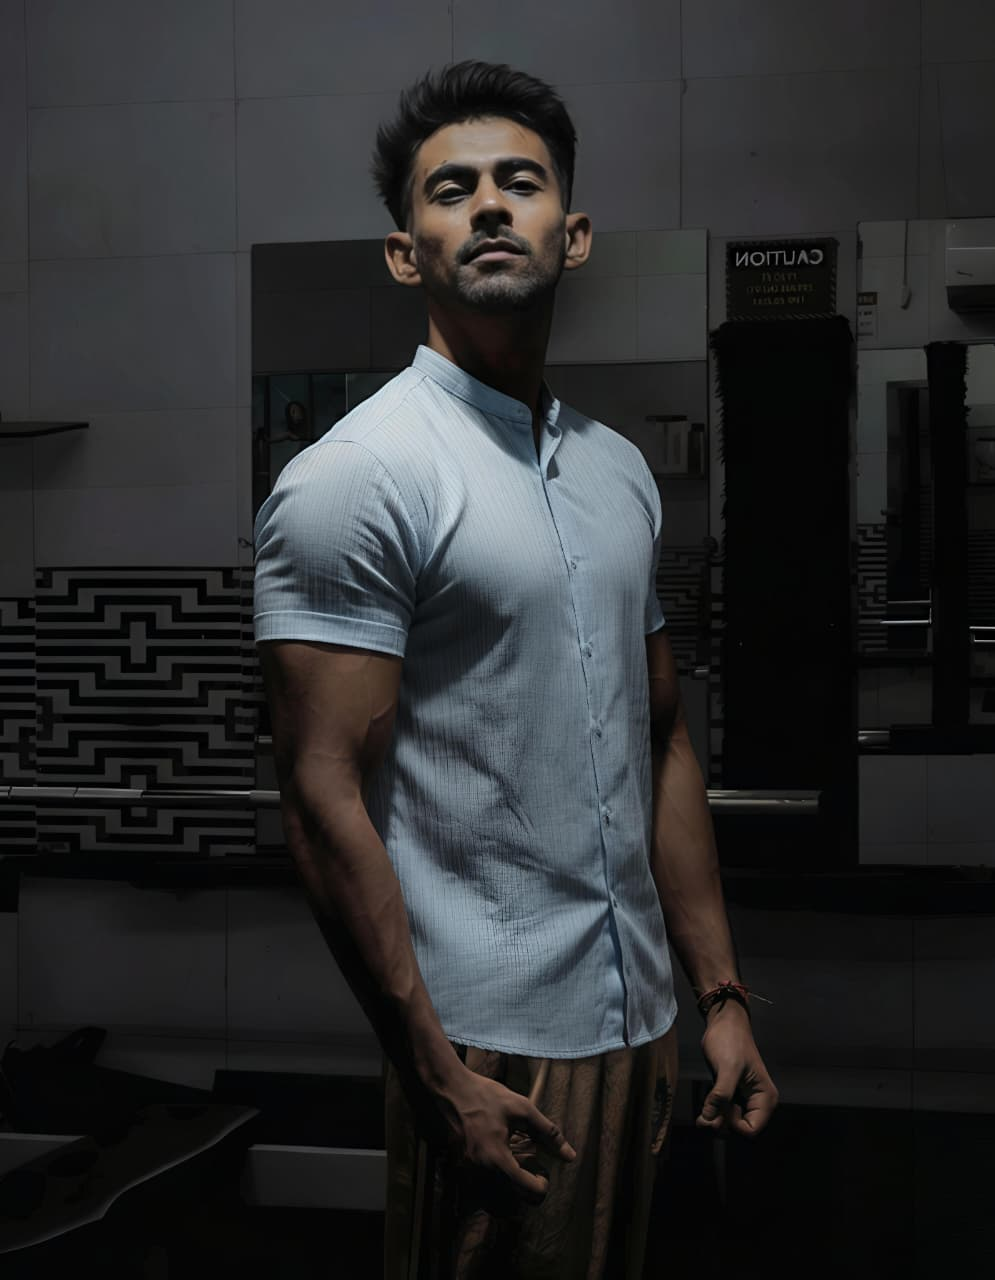
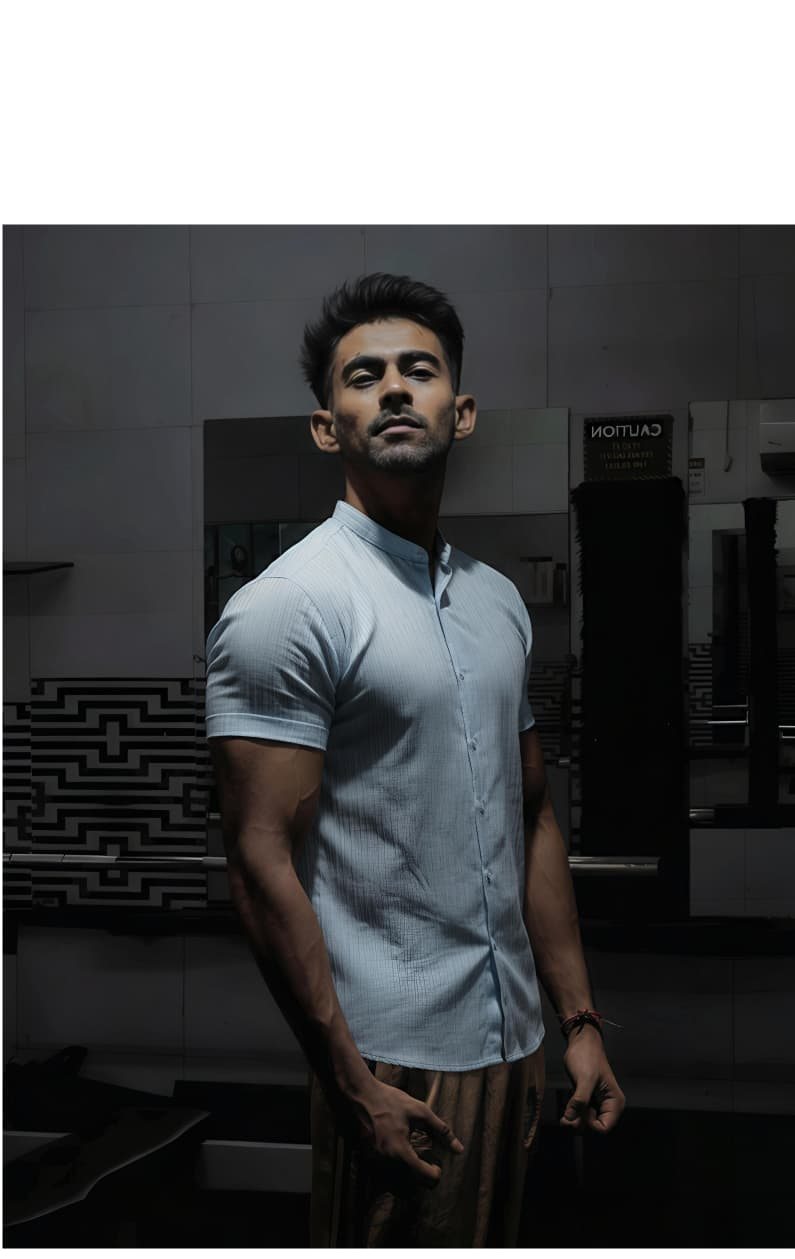
changes

diff --git a/index.html b/index.html
@@ -6,13 +6,7 @@
     <title>Aniket Prashar: The Business Transformer</title>
     <link rel="stylesheet" href="styles.css">
     <link rel="stylesheet" href="three-d.css">
-    <link rel="stylesheet" href="src/index.css">
     <link href="https://fonts.googleapis.com/css2?family=Noto+Sans+Devanagari:wght@400;700&family=Orbitron:wght@400;700&family=Roboto:wght@300;400;700&display=swap" rel="stylesheet">
-    <!-- Add React and Framer Motion -->
-    <script src="https://unpkg.com/react@18/umd/react.production.min.js"></script>
-    <script src="https://unpkg.com/react-dom@18/umd/react-dom.production.min.js"></script>
-    <script src="https://unpkg.com/framer-motion@10.12.16/dist/framer-motion.js"></script>
-    <script src="https://unpkg.com/@babel/standalone/babel.min.js"></script>
 </head>
 <body>
     <!-- Audio Player for Background Music -->
@@ -25,11 +19,6 @@
     <div class="music-control" id="music-control">
         <span class="music-icon">♪</span>
         <span class="music-text">Play Music</span>
-    </div>
-
-    <!-- Floating Profile Image -->
-    <div class="floating-profile">
-        <img src="Aniket.jpg" alt="Aniket Prashar" class="profile-image">
     </div>
 
     <!-- Hero Section with Shloka -->
@@ -61,7 +50,7 @@
                 <div class="hero-image-container">
                     <div class="image-display-area">
                         <img src="Aniket.jpg" alt="Aniket Prashar" class="display-image" onerror="this.style.display='none';">
-                        <p class="image-caption">Hi, I am <span class="animated-name">Aniket Prashar</span></p>
+                        <p class="image-caption">Hi, I am <span class="animated-name" id="nameAnimation">Aniket Prashar</span></p>
                         <p class="professional-titles">I am <span class="shloka-highlight">developer</span>, <span class="shloka-highlight">creator</span>, <span class="shloka-highlight">designer</span>, <span class="shloka-highlight">growth expert</span>, <span class="shloka-highlight">SEO and Geo expert</span>, <span class="shloka-highlight">market analyst</span> worked with companies like FAANG</p>
                     </div>
                 </div>
@@ -71,9 +60,6 @@
             <div class="chakra-spin"></div>
         </div>
     </section>
-
-    <!-- Portfolio Gallery Section -->
-    <section id="portfolio-gallery"></section>
 
     <!-- Quote Form Popup -->
     <div id="quotePopup" class="popup-overlay">
@@ -518,7 +504,7 @@
                     <div class="contact-label">GitHub</div>
                     <div class="contact-value">bakwassscontent79</div>
                 </a>
-                <a href="https0://portfolio-anikettt.netlify.app" class="contact-card" target="_blank">
+                <a href="https://portfolio-anikettt.netlify.app" class="contact-card" target="_blank">
                     <div class="contact-icon">🌐</div>
                     <div class="contact-label">Portfolio</div>
                     <div class="contact-value">portfolio-anikettt.netlify.app</div>
@@ -548,49 +534,6 @@
         </div>
     </footer>
 
-    <!-- React App Script -->
-    <script type="text/babel" src="src/index.js"></script>
-    
-    <!-- Existing Scripts -->
     <script src="script.js"></script>
-    
-    <!-- Floating Profile Image Styles -->
-    <style>
-        .floating-profile {
-            position: absolute;
-            top: 50%;
-            right: 50px;
-            z-index: 1000;
-            width: 150px;
-            height: 150px;
-            border-radius: 50%;
-            overflow: hidden;
-            border: 3px solid var(--gold);
-            box-shadow: 0 0 20px rgba(255, 215, 0, 0.5);
-            backdrop-filter: blur(10px);
-            transform: translateY(-50%);
-            opacity: 0;
-            animation: fadeIn 2s ease-in-out forwards;
-        }
-        
-        .profile-image {
-            width: 100%;
-            height: 100%;
-            object-fit: cover;
-        }
-        
-        @keyframes fadeIn {
-            from { opacity: 0; transform: translateY(-40%) scale(0.8); }
-            to { opacity: 1; transform: translateY(-50%) scale(1); }
-        }
-        
-        @media (max-width: 768px) {
-            .floating-profile {
-                width: 100px;
-                height: 100px;
-                right: 20px;
-            }
-        }
-    </style>
 </body>
 </html>

diff --git a/styles.css b/styles.css
@@ -214,9 +214,11 @@ body {
 }
 
 .display-image {
-    width: 100%;
-    max-height: 400px;
-    object-fit: contain;
+    width: auto;
+    height: 450px;
+    max-width: 100%;
+    object-fit: cover;
+    object-position: top;
     border-radius: 10px;
     box-shadow: 0 0 20px rgba(0, 0, 0, 0.3);
     margin-bottom: 1rem;
@@ -232,15 +234,30 @@ body {
 
 .animated-name {
     display: inline-block;
-    animation: colorChange 3s infinite alternate;
+    position: relative;
 }
 
-@keyframes colorChange {
-    0% { color: var(--gold); }
-    25% { color: var(--neon-green); }
-    50% { color: var(--saffron); }
-    75% { color: var(--digital-purple); }
-    100% { color: var(--gold); }
+.animated-text {
+    display: inline-block;
+    animation: textRotate 4s infinite;
+}
+
+@keyframes textRotate {
+    0% { opacity: 1; transform: translateY(0); }
+    15% { opacity: 1; transform: translateY(0); }
+    20% { opacity: 0; transform: translateY(-20px); }
+    25% { opacity: 0; }
+    30% { opacity: 0; }
+    35% { opacity: 1; transform: translateY(20px); }
+    40% { opacity: 1; transform: translateY(20px); }
+    55% { opacity: 1; transform: translateY(0); }
+    70% { opacity: 1; transform: translateY(0); }
+    75% { opacity: 0; transform: translateY(-20px); }
+    80% { opacity: 0; }
+    85% { opacity: 0; }
+    90% { opacity: 1; transform: translateY(20px); }
+    95% { opacity: 1; transform: translateY(20px); }
+    100% { opacity: 1; transform: translateY(0); }
 }
 
 .professional-titles {

diff --git a/script.js b/script.js
@@ -337,3 +337,28 @@ document.addEventListener('DOMContentLoaded', function() {
         });
     }
 });
+
+// Add the animated name rotation
+document.addEventListener('DOMContentLoaded', function() {
+    const nameElement = document.getElementById('nameAnimation');
+    if (nameElement) {
+        const roles = ['developer', 'designer', 'creator', 'analyst'];
+        let currentIndex = 0;
+        
+        setInterval(() => {
+            nameElement.textContent = roles[currentIndex];
+            nameElement.style.color = getColorForRole(roles[currentIndex]);
+            currentIndex = (currentIndex + 1) % roles.length;
+        }, 2000);
+    }
+    
+    function getColorForRole(role) {
+        const colors = {
+            'developer': '#39ff14', // neon green
+            'designer': '#ffd700',  // gold
+            'creator': '#ff9933',   // saffron
+            'analyst': '#800080'    // purple
+        };
+        return colors[role] || '#ffd700'; // default to gold
+    }
+});
